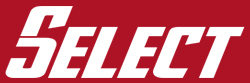
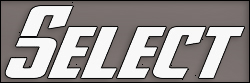
Next target reached.

diff --git a/TheMindGame/LevelSelection.Designer.cs b/TheMindGame/LevelSelection.Designer.cs
@@ -95,6 +95,7 @@
             // 
             this.pictureBox6.BackColor = System.Drawing.Color.White;
             this.pictureBox6.BackgroundImageLayout = System.Windows.Forms.ImageLayout.Stretch;
+            this.pictureBox6.BorderStyle = System.Windows.Forms.BorderStyle.FixedSingle;
             this.pictureBox6.Cursor = System.Windows.Forms.Cursors.Hand;
             this.pictureBox6.Location = new System.Drawing.Point(902, 444);
             this.pictureBox6.Name = "pictureBox6";
@@ -109,6 +110,7 @@
             // 
             this.pictureBox5.BackColor = System.Drawing.Color.White;
             this.pictureBox5.BackgroundImageLayout = System.Windows.Forms.ImageLayout.Stretch;
+            this.pictureBox5.BorderStyle = System.Windows.Forms.BorderStyle.FixedSingle;
             this.pictureBox5.Cursor = System.Windows.Forms.Cursors.Hand;
             this.pictureBox5.Location = new System.Drawing.Point(629, 444);
             this.pictureBox5.Name = "pictureBox5";
@@ -123,6 +125,7 @@
             // 
             this.pictureBox4.BackColor = System.Drawing.Color.White;
             this.pictureBox4.BackgroundImageLayout = System.Windows.Forms.ImageLayout.Stretch;
+            this.pictureBox4.BorderStyle = System.Windows.Forms.BorderStyle.FixedSingle;
             this.pictureBox4.Cursor = System.Windows.Forms.Cursors.Hand;
             this.pictureBox4.Location = new System.Drawing.Point(902, 273);
             this.pictureBox4.Name = "pictureBox4";
@@ -137,6 +140,7 @@
             // 
             this.pictureBox3.BackColor = System.Drawing.Color.White;
             this.pictureBox3.BackgroundImageLayout = System.Windows.Forms.ImageLayout.Stretch;
+            this.pictureBox3.BorderStyle = System.Windows.Forms.BorderStyle.FixedSingle;
             this.pictureBox3.Cursor = System.Windows.Forms.Cursors.Hand;
             this.pictureBox3.Location = new System.Drawing.Point(629, 273);
             this.pictureBox3.Name = "pictureBox3";
@@ -151,6 +155,7 @@
             // 
             this.pictureBox2.BackColor = System.Drawing.Color.White;
             this.pictureBox2.BackgroundImageLayout = System.Windows.Forms.ImageLayout.Stretch;
+            this.pictureBox2.BorderStyle = System.Windows.Forms.BorderStyle.FixedSingle;
             this.pictureBox2.Cursor = System.Windows.Forms.Cursors.Hand;
             this.pictureBox2.Location = new System.Drawing.Point(902, 103);
             this.pictureBox2.Name = "pictureBox2";
@@ -165,6 +170,7 @@
             // 
             this.pictureBox1.BackColor = System.Drawing.Color.White;
             this.pictureBox1.BackgroundImageLayout = System.Windows.Forms.ImageLayout.Stretch;
+            this.pictureBox1.BorderStyle = System.Windows.Forms.BorderStyle.FixedSingle;
             this.pictureBox1.Cursor = System.Windows.Forms.Cursors.Hand;
             this.pictureBox1.Location = new System.Drawing.Point(629, 103);
             this.pictureBox1.Name = "pictureBox1";
@@ -190,6 +196,7 @@
             // 
             this.selectedLevelPictureBox.BackColor = System.Drawing.Color.White;
             this.selectedLevelPictureBox.BackgroundImageLayout = System.Windows.Forms.ImageLayout.Stretch;
+            this.selectedLevelPictureBox.BorderStyle = System.Windows.Forms.BorderStyle.Fixed3D;
             this.selectedLevelPictureBox.Location = new System.Drawing.Point(12, 151);
             this.selectedLevelPictureBox.Name = "selectedLevelPictureBox";
             this.selectedLevelPictureBox.Size = new System.Drawing.Size(498, 332);
@@ -200,6 +207,7 @@
             // 
             this.AutoScaleDimensions = new System.Drawing.SizeF(6F, 13F);
             this.AutoScaleMode = System.Windows.Forms.AutoScaleMode.Font;
+            this.BackgroundImage = global::TheMindGame.Properties.Resources.stageSelectionBackground;
             this.BackgroundImageLayout = System.Windows.Forms.ImageLayout.Stretch;
             this.ClientSize = new System.Drawing.Size(1184, 761);
             this.Controls.Add(this.titlePictureBox);

diff --git a/TheMindGame/Gui.cs b/TheMindGame/Gui.cs
@@ -270,7 +270,7 @@ namespace TheMindGame
 
                 for (int x = sx; x <= fx; x++)
                 {
-                    for (int y = sy; y < fy; y++)
+                    for (int y = sy; y <= fy; y++)
                     {
 
                         if (x < width && y < height && x >= 0 && y >= 0)
@@ -358,21 +358,25 @@ namespace TheMindGame
 
         private void timerLEFT_Tick(object sender, EventArgs e)
         {
+           // currentImage = imgs[1];
             game.move(MovingDirection.LEFT);
         }
 
         private void timerRIGHT_Tick(object sender, EventArgs e)
         {
+            //currentImage = imgs[2];
             game.move(MovingDirection.RIGHT);
         }
 
         private void timerDOWN_Tick(object sender, EventArgs e)
         {
+            //currentImage = imgs[0];
             game.move(MovingDirection.DOWN);
         }
 
         private void timerUP_Tick(object sender, EventArgs e)
         {
+            //currentImage = imgs[3];
             game.move(MovingDirection.UP);
         }
 

diff --git a/TheMindGame/Map.cs b/TheMindGame/Map.cs
@@ -112,11 +112,7 @@ namespace TheMindGame
                     System.Convert.ToInt32(tmp[2]), System.Convert.ToInt32(tmp[3]));
 
                 teleporters.Add(t);
-
-                t = new Teleporter(System.Convert.ToInt32(tmp[2]), System.Convert.ToInt32(tmp[3]),
-                    System.Convert.ToInt32(tmp[0]), System.Convert.ToInt32(tmp[1]));
-
-                teleporters.Add(t);
+                
             }
 
             int nbBombs = System.Convert.ToInt32(f.ReadLine());
@@ -172,7 +168,7 @@ namespace TheMindGame
 
             for (int x = sx; x <= fx; x++)
             {
-                for (int y = sy; y < fy; y++)
+                for (int y = sy; y <= fy; y++)
                 {
 
                     if (x < width && y < height && x >= 0 && y >= 0)

diff --git a/TheMindGame/CharacterSelection.cs b/TheMindGame/CharacterSelection.cs
@@ -13,7 +13,7 @@ namespace TheMindGame
 {
     public partial class CharacterSelection : Form
     {
-
+        private bool exitApplication = true;
         private List<string> allCharactersPath;
         private int currPos = 1;
 
@@ -100,14 +100,17 @@ namespace TheMindGame
             MainMenu.selectedCharacterPath = allCharactersPath[currPos];
             Program.mainMenu.Location = this.Location;
             Program.mainMenu.Visible = true;
-            
+
+            exitApplication = false;
             this.Dispose();
 
         }
 
         private void CharacterSelection_FormClosed(object sender, FormClosedEventArgs e)
         {
-            Application.Exit();
+
+            if(exitApplication) Application.Exit();
+
         }
     }
 }

diff --git a/TheMindGame/LevelSelection.cs b/TheMindGame/LevelSelection.cs
@@ -107,7 +107,7 @@ namespace TheMindGame
             arrowDown.Location = new Point(arrowX, pictureBox5.Location.Y + pictureBox5.Height + 30);
             arrowUp.Location = new Point(arrowX, pictureBox1.Location.Y - 30 - arrowUp.Height);
 
-            titlePictureBox.Location = new Point(selectedLevelPictureBox.Location.X + (selectedLevelPictureBox.Width - titlePictureBox.Width) / 2, 20);
+            titlePictureBox.Location = new Point(selectedLevelPictureBox.Location.X + (selectedLevelPictureBox.Width - titlePictureBox.Width) / 2, 60);
 
         }
 
